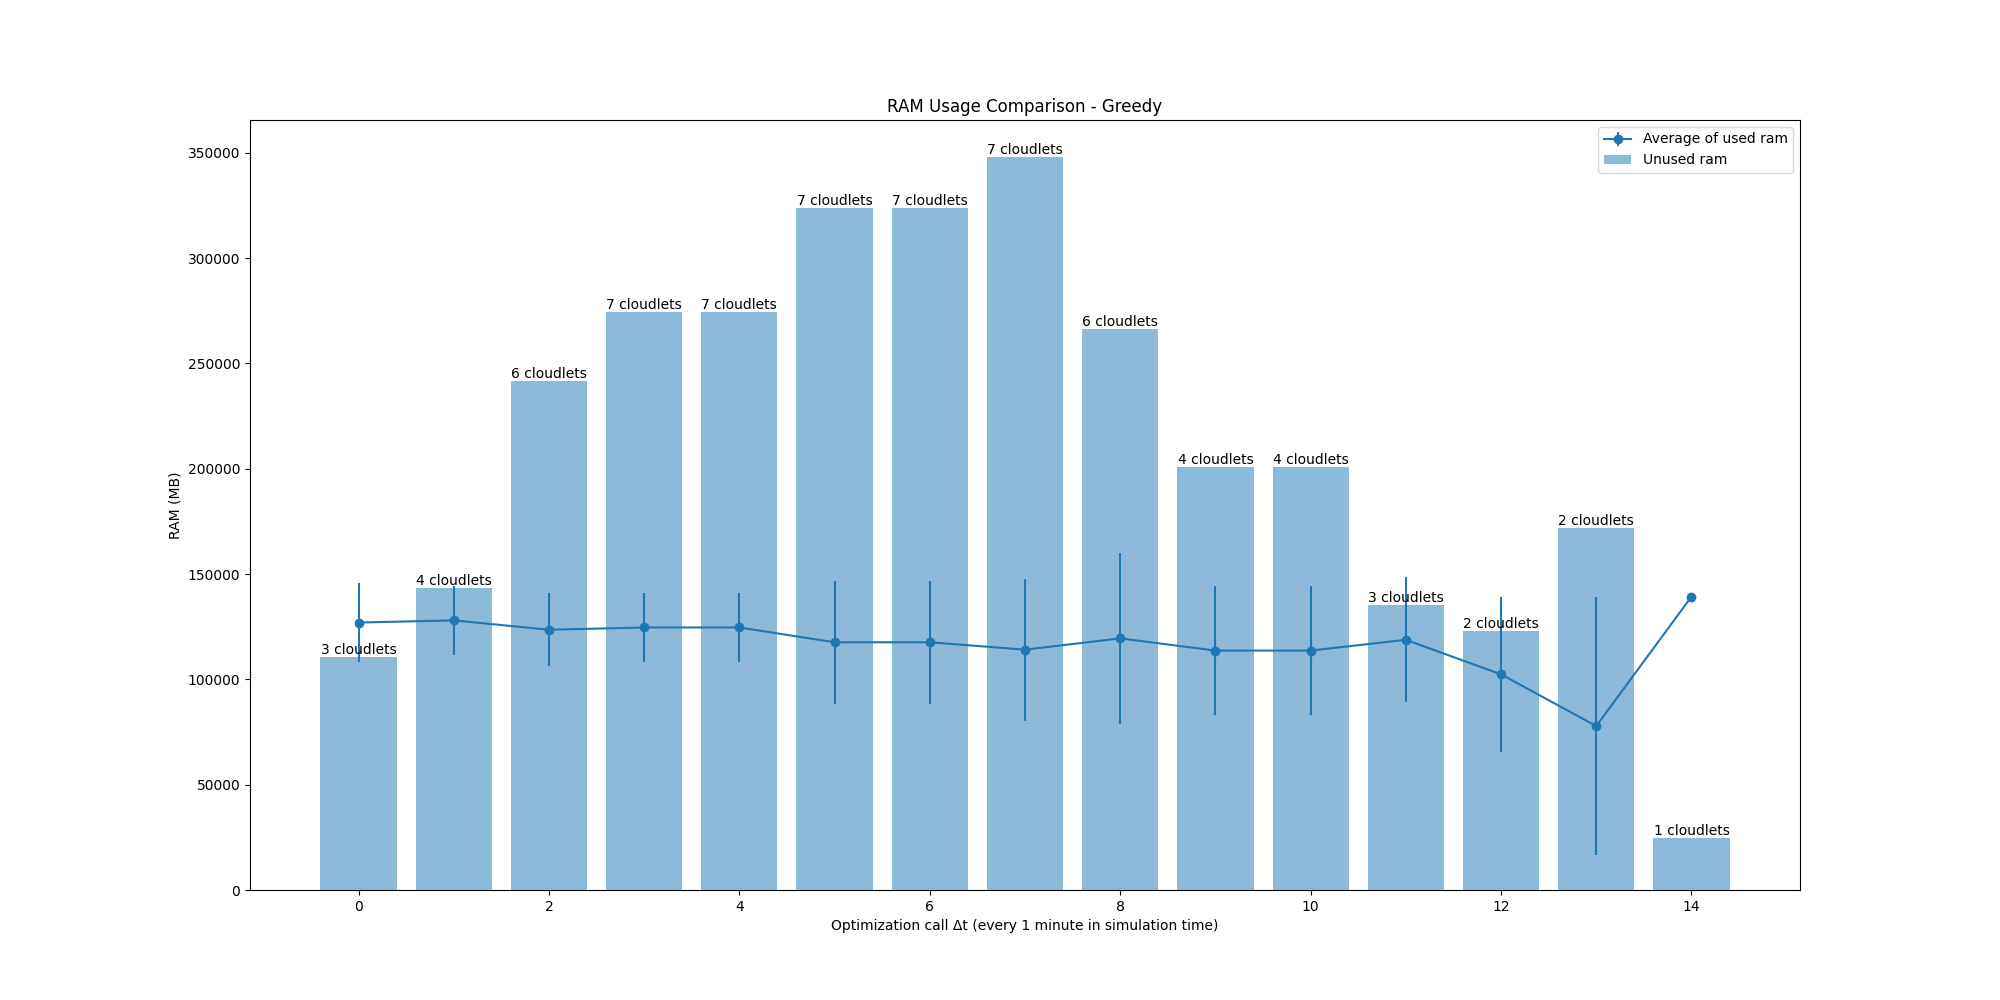
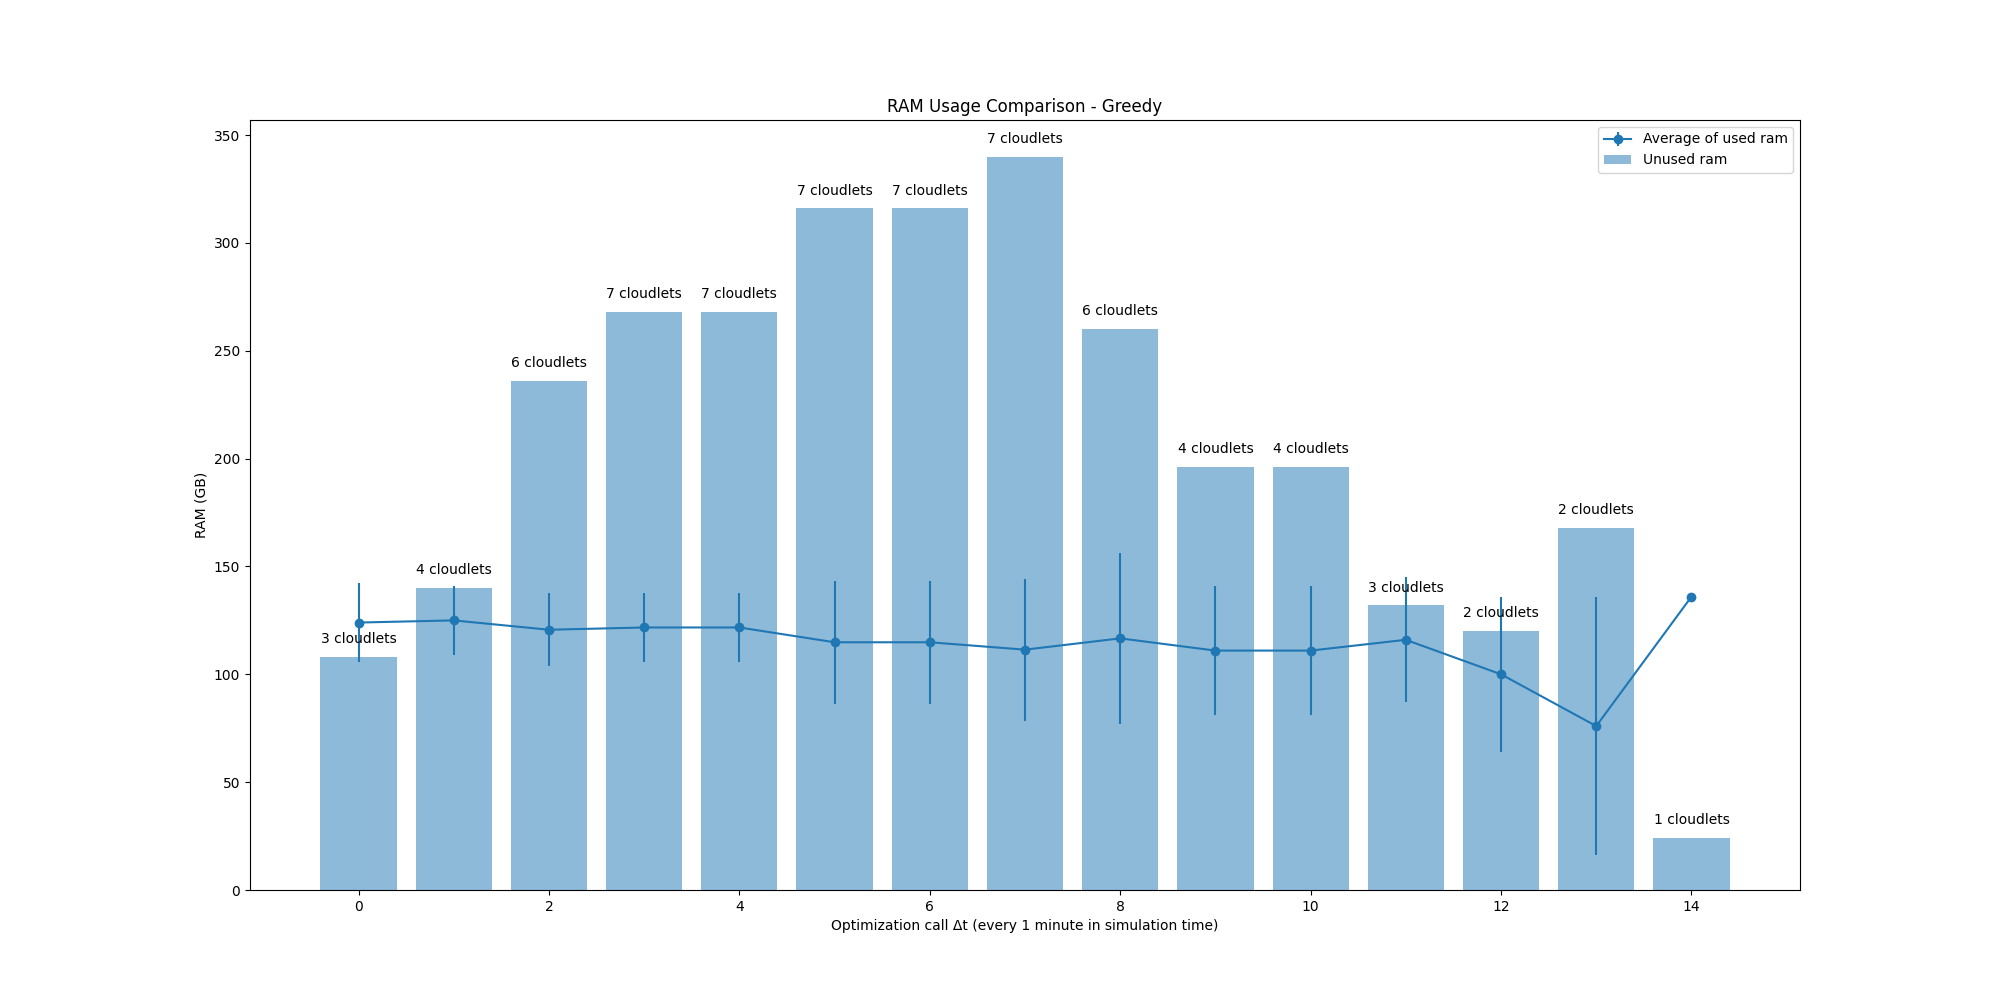
new results

diff --git a/data_analysis/analysis.py b/data_analysis/analysis.py
@@ -111,7 +111,7 @@ def cloudletsUsageComparison(algorithms, users, instance):
         df['time-step'] -= 1
         df['time-step'] /= 60
         df['algorithm'] = alg[1]
-        buildGraphForAlg(df, alg)
+        buildGraphForAlg(df, alg)   
 
 def buildGraphForAlg(df, alg):
     buildGraphForRes(df, alg, 'cpu', 'CPU Usage Comparison')
@@ -122,18 +122,16 @@ def buildGraphForRes(df, alg, res, title):
     # Create a figure and two axes objects
     fig, ax = plt.subplots(figsize=(20, 10))
 
-    # Plotting the line graph with error bars
-    ax.errorbar(df['time-step'], df[f'used {res} avg'], yerr=df[f'used {res} std'], fmt='-o', label=f'Average of used {res}')
-
-    # Adding vertical bars representing 'unused cpu'
-    ax.bar(df['time-step'], df[f'unused {res}'], alpha=0.5, label=f'Unused {res}')
-
     # Adding labels and title to the graph
     ax.set_xlabel('Optimization call Δt (every 1 minute in simulation time)')
     
     if res == 'ram' or res == 'storage':
-        ax.set_ylabel(f'{res.upper()} (MB)')
+        ax.errorbar(df['time-step'], df[f'used {res} avg']/1024, yerr=df[f'used {res} std']/1024, fmt='-o', label=f'Average of used {res}')
+        ax.bar(df['time-step'], df[f'unused {res}']/1024, alpha=0.5, label=f'Unused {res}')
+        ax.set_ylabel(f'{res.upper()} (GB)')
     else:
+        ax.errorbar(df['time-step'], df[f'used {res} avg'], yerr=df[f'used {res} std'], fmt='-o', label=f'Average of used {res}')
+        ax.bar(df['time-step'], df[f'unused {res}'], alpha=0.5, label=f'Unused {res}')
         ax.set_ylabel('CPU (Processing units)')
     
     ax.set_title(f'{title} - {alg[1]}')
